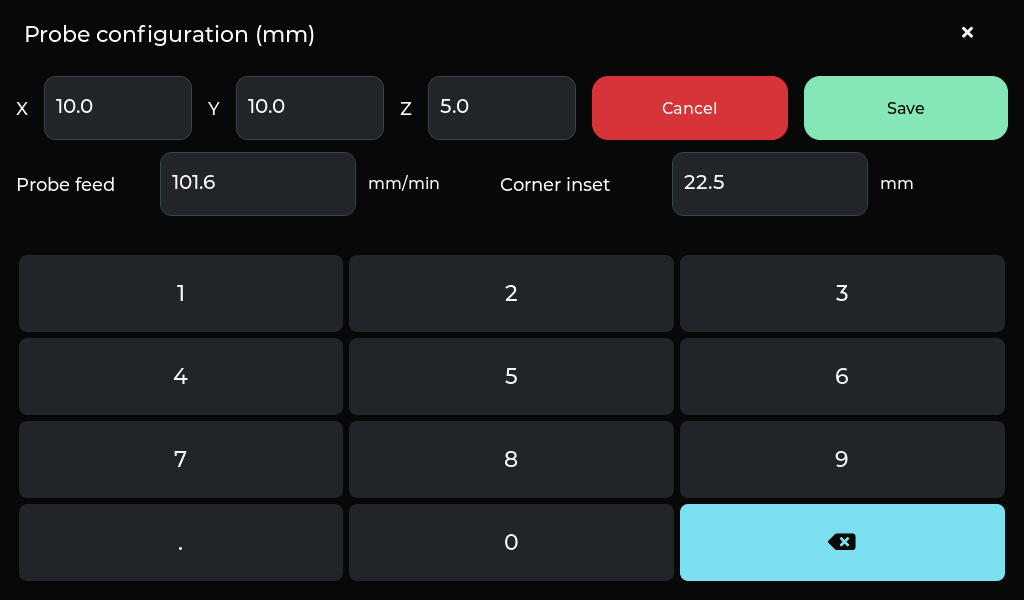
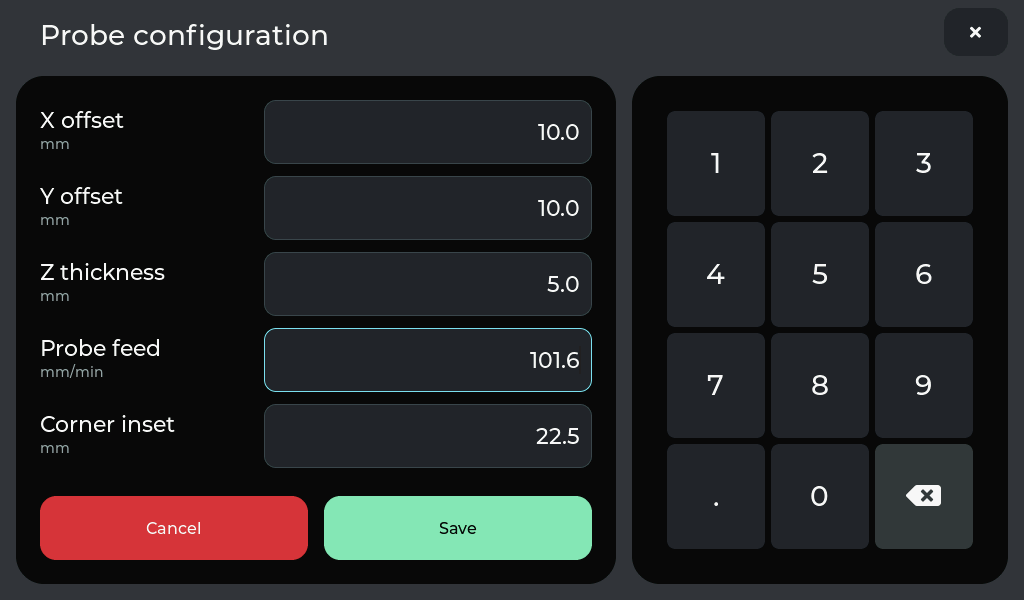
Restyle probe configuration and unify probe-setting editors

diff --git a/tools/check-settings-rows.py b/tools/check-settings-rows.py
@@ -41,22 +41,22 @@ try:
  tap(976,32);assert data()['dialog']=='none'
  scroll_to(650);row_y=y(794);assert 110<row_y<475
  keys=('x','y','z','feed','inset')
- points=((118,108),(310,108),(502,108),(258,184),(770,184))
+ points=((428,132),(428,208),(428,284),(428,360),(428,436))
  def field(axis,text):
   tap(*points[axis]);cmd('SETTING FIELD '+text.encode('ascii').hex())
  tap(850,row_y);assert data()['dialog']=='probe-offsets'
  for axis,key in enumerate(keys):field(axis,'0' if axis==1 else f"{original[key]+.1:.1f}")
- tap(906,108);assert data()['dialog']=='probe-offsets'
+ tap(458,528);assert data()['dialog']=='probe-offsets'
  for key in keys:assert data()[key]==original[key]
  for axis,key in enumerate(keys):field(axis,f"{original[key]:.1f}")
- tap(906,108);assert data()['dialog']=='none'
+ tap(458,528);assert data()['dialog']=='none'
  scroll_to(650);row_y=y(794);tap(850,row_y);assert data()['dialog']=='probe-offsets'
  delta=(.1,.2,.3,1,.5)
  for axis,key in enumerate(keys):field(axis,f"{original[key]+delta[axis]:.1f}")
  for axis,key in enumerate(keys):assert abs(data()['probe_edit_'+key]-(original[key]+delta[axis]))<.001
- tap(116,294);assert abs(data()['probe_edit_inset']-float(f"{original['inset']+.5:.1f}"+'1'))<.001
+ tap(710,155);assert abs(data()['probe_edit_inset']-float(f"{original['inset']+.5:.1f}"+'1'))<.001
  field(4,f"{original['inset']+.5:.1f}")
- shot('settings-probe-offsets-large');tap(690,108);assert data()['dialog']=='none'
+ shot('settings-probe-offsets-large');tap(174,528);assert data()['dialog']=='none'
  for key in keys:assert data()[key]==original[key]
  if not original.get('usb_connection',0):
   scroll_to(800);tap(850,y(1026));assert data()['dialog']=='number-keypad'

diff --git a/firmware/viewesmart-p4/main/panel_ui.cpp b/firmware/viewesmart-p4/main/panel_ui.cpp
@@ -623,14 +623,13 @@ static void edit_value(lv_event_t *e) {
     case 3:
     case 4:
     case 5:
-        show_probe_offsets(nullptr);
-        break;
     case 6:
-        edit({&prefs.probe.feed, 25, 500, inches ? "Probe feed (in/min)" : "Probe feed (mm/min)"});
+    case 7: {
+        unsigned index=(uintptr_t)lv_event_get_user_data(e)-3;
+        show_probe_offsets(nullptr);
+        if (probe_offsets_keyboard) lv_obj_send_event(probe_offset_fields[index],LV_EVENT_FOCUSED,nullptr);
         break;
-    case 7:
-        edit({&prefs.probe.inset, 1, 100, inches ? "Corner start inset (in)" : "Corner start inset (mm)"});
-        break;
+    }
     case 8:
         edit({&prefs.tx, 0, 54, "UART TX pin", true});
         break;

diff --git a/tools/check-diagnostics.py b/tools/check-diagnostics.py
@@ -98,7 +98,7 @@ try:
     tap(850, round(y))
     assert data()['dialog'] == 'probe-offsets'
     shot('panel-probe-configuration')
-    tap(690, 108)
+    tap(174, 528)
     tap(154, 566)
     tap(691, 566)
     assert data()['page'] == 6 and data()['dialog'] == 'none'

diff --git a/AGENTS.md b/AGENTS.md
@@ -184,7 +184,7 @@ The file-list interior is white; the main grey background separates the cards.
 Wi-Fi Scan/Disconnect sit below the title band; Close is in its top-right corner.
 Secondary screens fill the LCD with graphite, a title/close control above a rounded
 black content card, and rounded dark controls. No floating or translucent overlays.
-Probe Configuration is the explicit unchanged black-editor exception.
+Probe Configuration uses separate rounded settings and numeric-keypad cards, matching Jog.
 Wi-Fi lists use white, borderless rows; the whole network row remains tappable.
 Scan rows show signal strength followed by a lock icon for secured networks; open
 networks have no lock. The Font Awesome glyph and license are in main/assets/.
@@ -496,8 +496,8 @@ Full-screen form implementation: panel_fullscreen.inc styles secondary controls;
 open_modal now builds a full 1024x600 page with a rounded (16,76,992,508) content
 card. The internal name remains for existing return callbacks. finish_modal runs
 before drawing each page, including dynamic Wi-Fi and machine-setting lists.
-Keep validation/confirmation/Cancel behavior intact. Only Probe Configuration
-passes plain=true; do not restyle it during this pass. New keyboard function keys
+Keep validation/confirmation/Cancel behavior intact. Probe Configuration now uses
+the shared graphite backdrop with separate settings/keypad cards. New keyboard function keys
 use subdued charcoal, not cyan. Update/OK and Cancel retain semantic colours.
 UG PREFS exposes form_kind and actual form_w/form_h for reliable checks. Use
 check-fullscreen.py in UART-off demo mode; it never confirms motion or saves
@@ -517,3 +517,5 @@ The selected controller transport connects on pendant boot. Explicit Disconnect 
 CNC Jog caches control appearance by availability/mode flags. Idle/Jog updates change DRO, status and Wi-Fi data only; do not restyle or grey all controls around each jog. The model still rejects busy/non-idle commands; busy direction taps are ignored without queuing work or opening a popup. Alarms, disconnects, jobs and other machine modes still disable controls. Invalidate the appearance key on page rebuild and faults. UG PREFS exposes jog_speed, jog_hold_ms, jog_control_updates and native jog_enabled. tools/check-jog-response.py checks continuous/incremental stability, release timing, busy rejection and fault/disconnect disabling in demo mode; it leaves demo isolated. Zeroing confirmation has a neutral title/card and Cancel with a green Set zero action; USER_2 marks its explicitly neutral Cancel so the full-screen styling does not force it red. Fault dialogs retain their red styling.
 
 Machine Settings uses the standard full-screen page with a 24 px content inset: toolbar at (40,100), lists at y=164 and footer at y=512. Reserve a scrollbar gutter beside setting values; keep these explicit browser coordinates instead of relying on legacy modal-size insetting.
+
+Probe Configuration keeps five labelled 64 px fields on the left and a large numeric keypad on the right. Save/Cancel sit below the settings; use the common header/close control. Probe feed, thickness and inset entry points open this same editor and focus the relevant field. Preserve validation, metric/inch conversion, precise unchanged values and return-to-Probe behaviour.

diff --git a/README.md b/README.md
@@ -237,7 +237,7 @@ Click a screenshot to open it at full size.
 | Features and use | Preview |
 | --- | --- |
 | **Display units and Wi-Fi**<br><br>Choose display units, file location, brightness and Wi-Fi; configure probing, previews and the controller. | [<img src="docs/screenshots/panel-settings.png" alt="Settings units and network" width="640">](docs/screenshots/panel-settings.png) |
-| **Probe configuration**<br><br>Set the touch-plate dimensions used by corner probing. These values are stored on the display. | [<img src="docs/screenshots/panel-settings-probe.png" alt="Combined probe geometry and feed editor" width="640">](docs/screenshots/panel-settings-probe.png) |
+| **Probe configuration**<br><br>Edit plate dimensions, probe feed and corner inset beside a large numeric keypad. Probe-page shortcuts open the same editor with the relevant field selected. | [<img src="docs/screenshots/panel-settings-probe.png" alt="Combined probe geometry and feed editor" width="640">](docs/screenshots/panel-settings-probe.png) |
 | **Probe feed and corner start inset**<br><br>Adjust the probing feed and the initial corner inset to suit the plate and setup. | [<img src="docs/screenshots/panel-settings-probe-lower.png" alt="Settings service and probe configuration rows" width="640">](docs/screenshots/panel-settings-probe-lower.png) |
 | **USB controller connection**<br><br>Connect a CDC ACM grblHAL controller to USB3. UART remains selectable for wired serial connections. | [<img src="docs/screenshots/panel-settings-usb.png" alt="USB3 controller connected" width="640">](docs/screenshots/panel-settings-usb.png) |
 | **Inch display setting**<br><br>Switch the LCD measurement system to inches. Internal geometry and generated motion remain in millimetres. | [<img src="docs/screenshots/panel-settings-inch.png" alt="Inch units selected in settings" width="640">](docs/screenshots/panel-settings-inch.png) |

diff --git a/docs/device-ui-development.md b/docs/device-ui-development.md
@@ -264,8 +264,10 @@ before building. Preserved older timestamps can leave a newer experimental objec
 in the firmware even though the source has been restored. Keep the LCD draw buffer
 in internal DMA RAM (1024 x 50 pixels); no full-frame PSRAM drawing buffer.
 
-The full-screen Probe Configuration editor has one shared numeric keyboard for
-X/Y/Z, feed and corner inset.
+The full-screen Probe Configuration editor has a left settings card for X/Y/Z,
+feed and corner inset, and a right card with the shared numeric keypad. Each
+probe-setting entry point focuses its field; Cancel returns to the Probe page
+when opened there.
 `UG SETTING FIELD <ASCII-hex>` fills its currently focused field without applying;
 it still fills machine-setting/search fields when that editor is open. `UG PREFS`
 reports `dialog=probe-offsets` and the draft values as `probe_edit_x/y/z`. Saved
@@ -289,7 +291,7 @@ Inspect those real framebuffer images before publishing them to the README.
 Wi-Fi scan/password/result, Probe, Tools/spindle choice, numeric input,
 confirmations, machine settings/search/editors, actuator configuration, macro
 editing, preview server and preview-update progress use the main graphite/card
-palette. Probe Configuration retains its existing black editor until its redesign.
+palette. Probe Configuration uses separate settings and keypad cards in that same theme.
 The old `modal` variable hosts a fully opaque page; it is not a floating overlay.
 
 `UG PREFS` includes `form_kind` and the actual content page `form_w`/`form_h`.

diff --git a/docs/concepts/settings-design-qa.md b/docs/concepts/settings-design-qa.md
@@ -15,9 +15,9 @@ keyboard. Cancel discards unsaved typing.
 
 ## Probe configuration
 
-![Shared probe configuration editor](settings-probe-offsets-large.png)
+![Shared probe configuration editor](../screenshots/panel-settings-probe.png)
 
-X, Y, Z, probe feed and corner inset share a full-screen editor and one numeric keypad. Fields match the
+X, Y, Z, probe feed and corner inset occupy the left card, with a large numeric keypad in the right card. Fields match the
 Save/Cancel button height, use normal text, and show one decimal in mm or three
 in inches. The keypad has digits, decimal and Backspace; there are no duplicate
 Done/Cancel keys. All five fields are validated before any saved probe settings change.
@@ -31,7 +31,7 @@ blocking background controls. Closing restores the underlying page.
 keyboard focus and typing, all-or-nothing probe-configuration validation, Save/Cancel, unchanged
 preferences and navigation in UART-disconnected demo mode.
 
-## Black editor actions
+## Editor actions
 
 Macro Add/Edit, Preview Server and Probe Configuration share the same action rules:
 solid red Cancel/Delete on the left, mint Save on the right. Macro confirmations

diff --git a/docs/color-scheme.md b/docs/color-scheme.md
@@ -76,7 +76,7 @@ These are framebuffer captures from the pendant, with simulated controller feedb
 | ![Empty macro page](screenshots/panel-macros-empty.png) | ![Disabled actuator controls](screenshots/panel-actuators-disabled.png) |
 | ![Wi-Fi](screenshots/wifi-networks.png) | ![Single surface probe](screenshots/panel-probe-surface.png) |
 
-## Full-screen black editors
+## Full-screen editors
 
 Macro Add/Edit, Preview Server and Probe Configuration use solid red Cancel/Delete
 (`#D3343B`, light text) on the left and mint Save (`#83E6B0`, dark text) on the
@@ -88,4 +88,4 @@ Secondary pages use graphite outside rounded black cards, with dark charcoal
 fields and controls. Positive actions use mint with dark text; Cancel, Delete,
 Stop and Disconnect use red. Warning actions keep amber. Keyboard function keys
 are charcoal (`30383D`, pressed `465157`) with white text rather than bright cyan.
-Probe Configuration remains unchanged pending its separate layout update.
+Probe Configuration uses a left settings card and right numeric-keypad card, with the same graphite backdrop, charcoal inputs and semantic actions.
